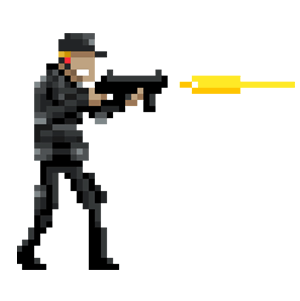
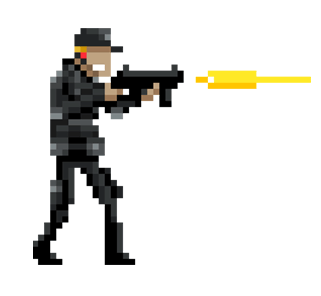
Lets the character shoot

Changed region(s): [[0.03, 0.0912, 0.99, 0.9122]]

diff --git a/GameLogic.py b/GameLogic.py
@@ -37,8 +37,8 @@ class Sprite:
     # an example of updating position of the object
     def update(self):
         # TODO: what else Sprite is going to do in each frame
-        self.x += self.vx
-        self.y += self.vy
+        bounceIn(self,0,0,1225,700)
+        
     def MovementDetection(self):
         CharacterAnimationL = [GLib.character1]
         if self.x != self.pastx or self.y != self.pasty:
@@ -94,8 +94,11 @@ class Game:
                     self.enemyList.remove(e)
             #elif state == "MovingLeft" :
             showAnimationOn(self.sprite, self.sprite.MovementDetection(), self.timer )
+            self.sprite.update()
         elif state == "StartScreen":
             pass
+        elif state == "Attack":
+            showAnimationOn(self.sprite, GLib.ShootingSprite, self.timer/1)
         else:
             print("Undefined game state " + str(state))
             exit()
@@ -114,9 +117,12 @@ class Game:
         # TODO: if you want a differnt background, 
             # you can replace the next line                     
         if state == "Normal":
-            screen.blit(GLib.Realbackground, (0, 0))
+            screen.blit(GLib.Realbackground, (-25, -15))
         elif state == "StartScreen":
-            screen.blit(GLib.Startscreen,(0,0))    
+            screen.blit(GLib.Startscreen,(0,0))
+        if state == "Attack":
+            screen.blit(GLib.Realbackground,(-25,-15))
+        
 
         stack = [self.objectsOnScreen]
         while len(stack) > 0:

diff --git a/Main.py b/Main.py
@@ -45,19 +45,18 @@ while True:
         # TODO: replace the reset with your designed input
         if event.type == pygame.KEYDOWN:
             if event.key == pygame.K_LEFT:
-                game.sprite.x += -15
-                print("ok")
+                game.sprite.x += -15              
             if event.key == pygame.K_RIGHT:
-#<<<<<<< HEAD
                 game.sprite.x += 20
-#=======
                 game.sprite.x += 8
-#>>>>>>> origin/master
                 #state = "MovingLeft"            
             if event.key == pygame.K_UP:
                 game.sprite.y += -15
             if event.key == pygame.K_DOWN:
                 game.sprite.y += 15
+            if event.key == pygame.K_SPACE:
+                state = "Attack"
+                game.objectsOnScreen = [game.sprite, game.enemyList]
         if event.type == pygame.KEYUP:
             if event.key == pygame.K_LEFT:
                 game.sprite.x += 0
@@ -68,6 +67,8 @@ while True:
                 game.sprite.y += 0
             if event.key == pygame.K_DOWN:
                 game.sprite.y += 0
+            if event.key == pygame.K_SPACE:
+                state = "Normal"
         if event.type== pygame.MOUSEBUTTONDOWN:
             x, y = event.pos
             if state == "StartScreen":

diff --git a/GraphicsLib.py b/GraphicsLib.py
@@ -15,13 +15,20 @@ character1.set_colorkey(WHITE)
 character2 = pygame.image.load('swatswalkingcycle2.png')
 character2= pygame.transform.scale(character2,(70,75))
 character2.set_colorkey(WHITE)
+shotsFired = pygame.image.load('swatshootingcycle2.png')
+shotsFired = pygame.transform.scale(shotsFired,(70,75))
+shotsFired.set_alpha()
+shotsFired.set_colorkey(WHITE)
+
+
 #background = pygame.image.load('action cycle 3.jpg')
 #background= pygame.transform.scale(background,(50,55))
 Realbackground = pygame.image.load('Mbackground.png')
-Realbackground= pygame.transform.scale(Realbackground,(1300,800))
+Realbackground= pygame.transform.scale(Realbackground,(1250,800))
 characterAnimationL = [character1,character2]
 Startscreen = pygame.image.load("ChocoBible.png")
-Startscreen = pygame.transform.scale(Startscreen,(1300,800))
+Startscreen = pygame.transform.scale(Startscreen,(1250,800))
+ShootingSprite = [character1,shotsFired]
 
 
 enemy1 = pygame.Surface((50,50))
